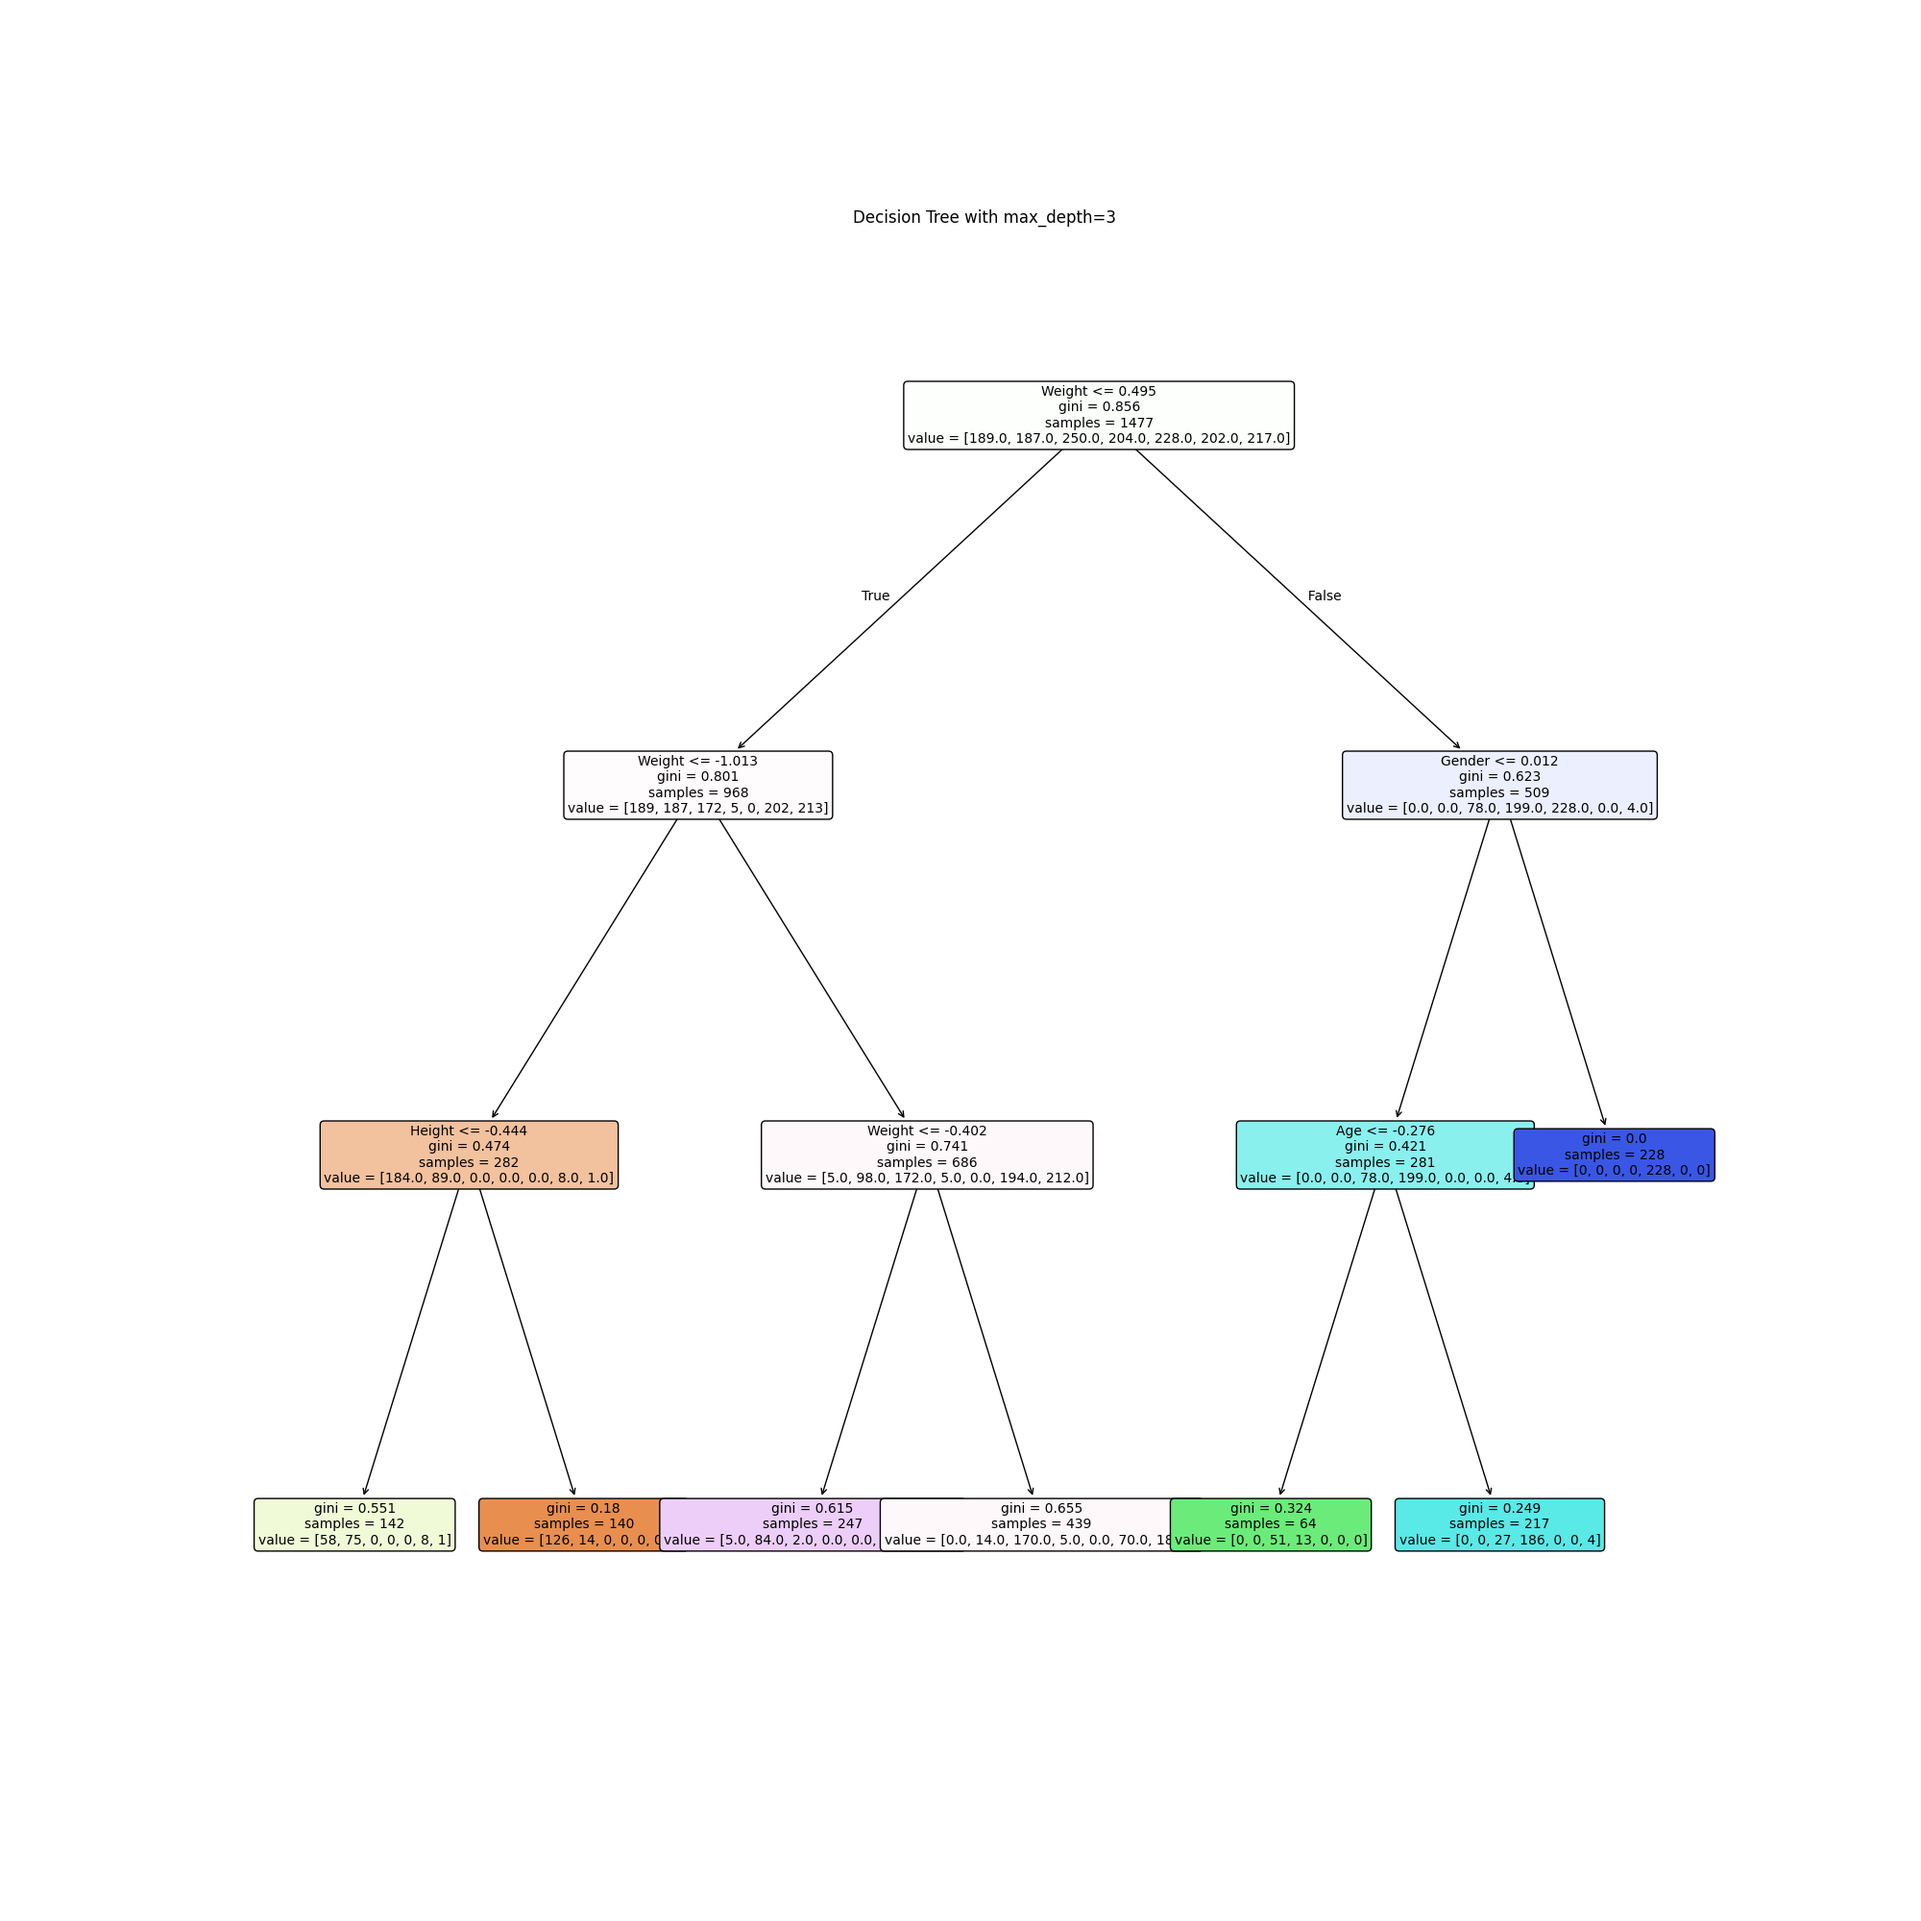
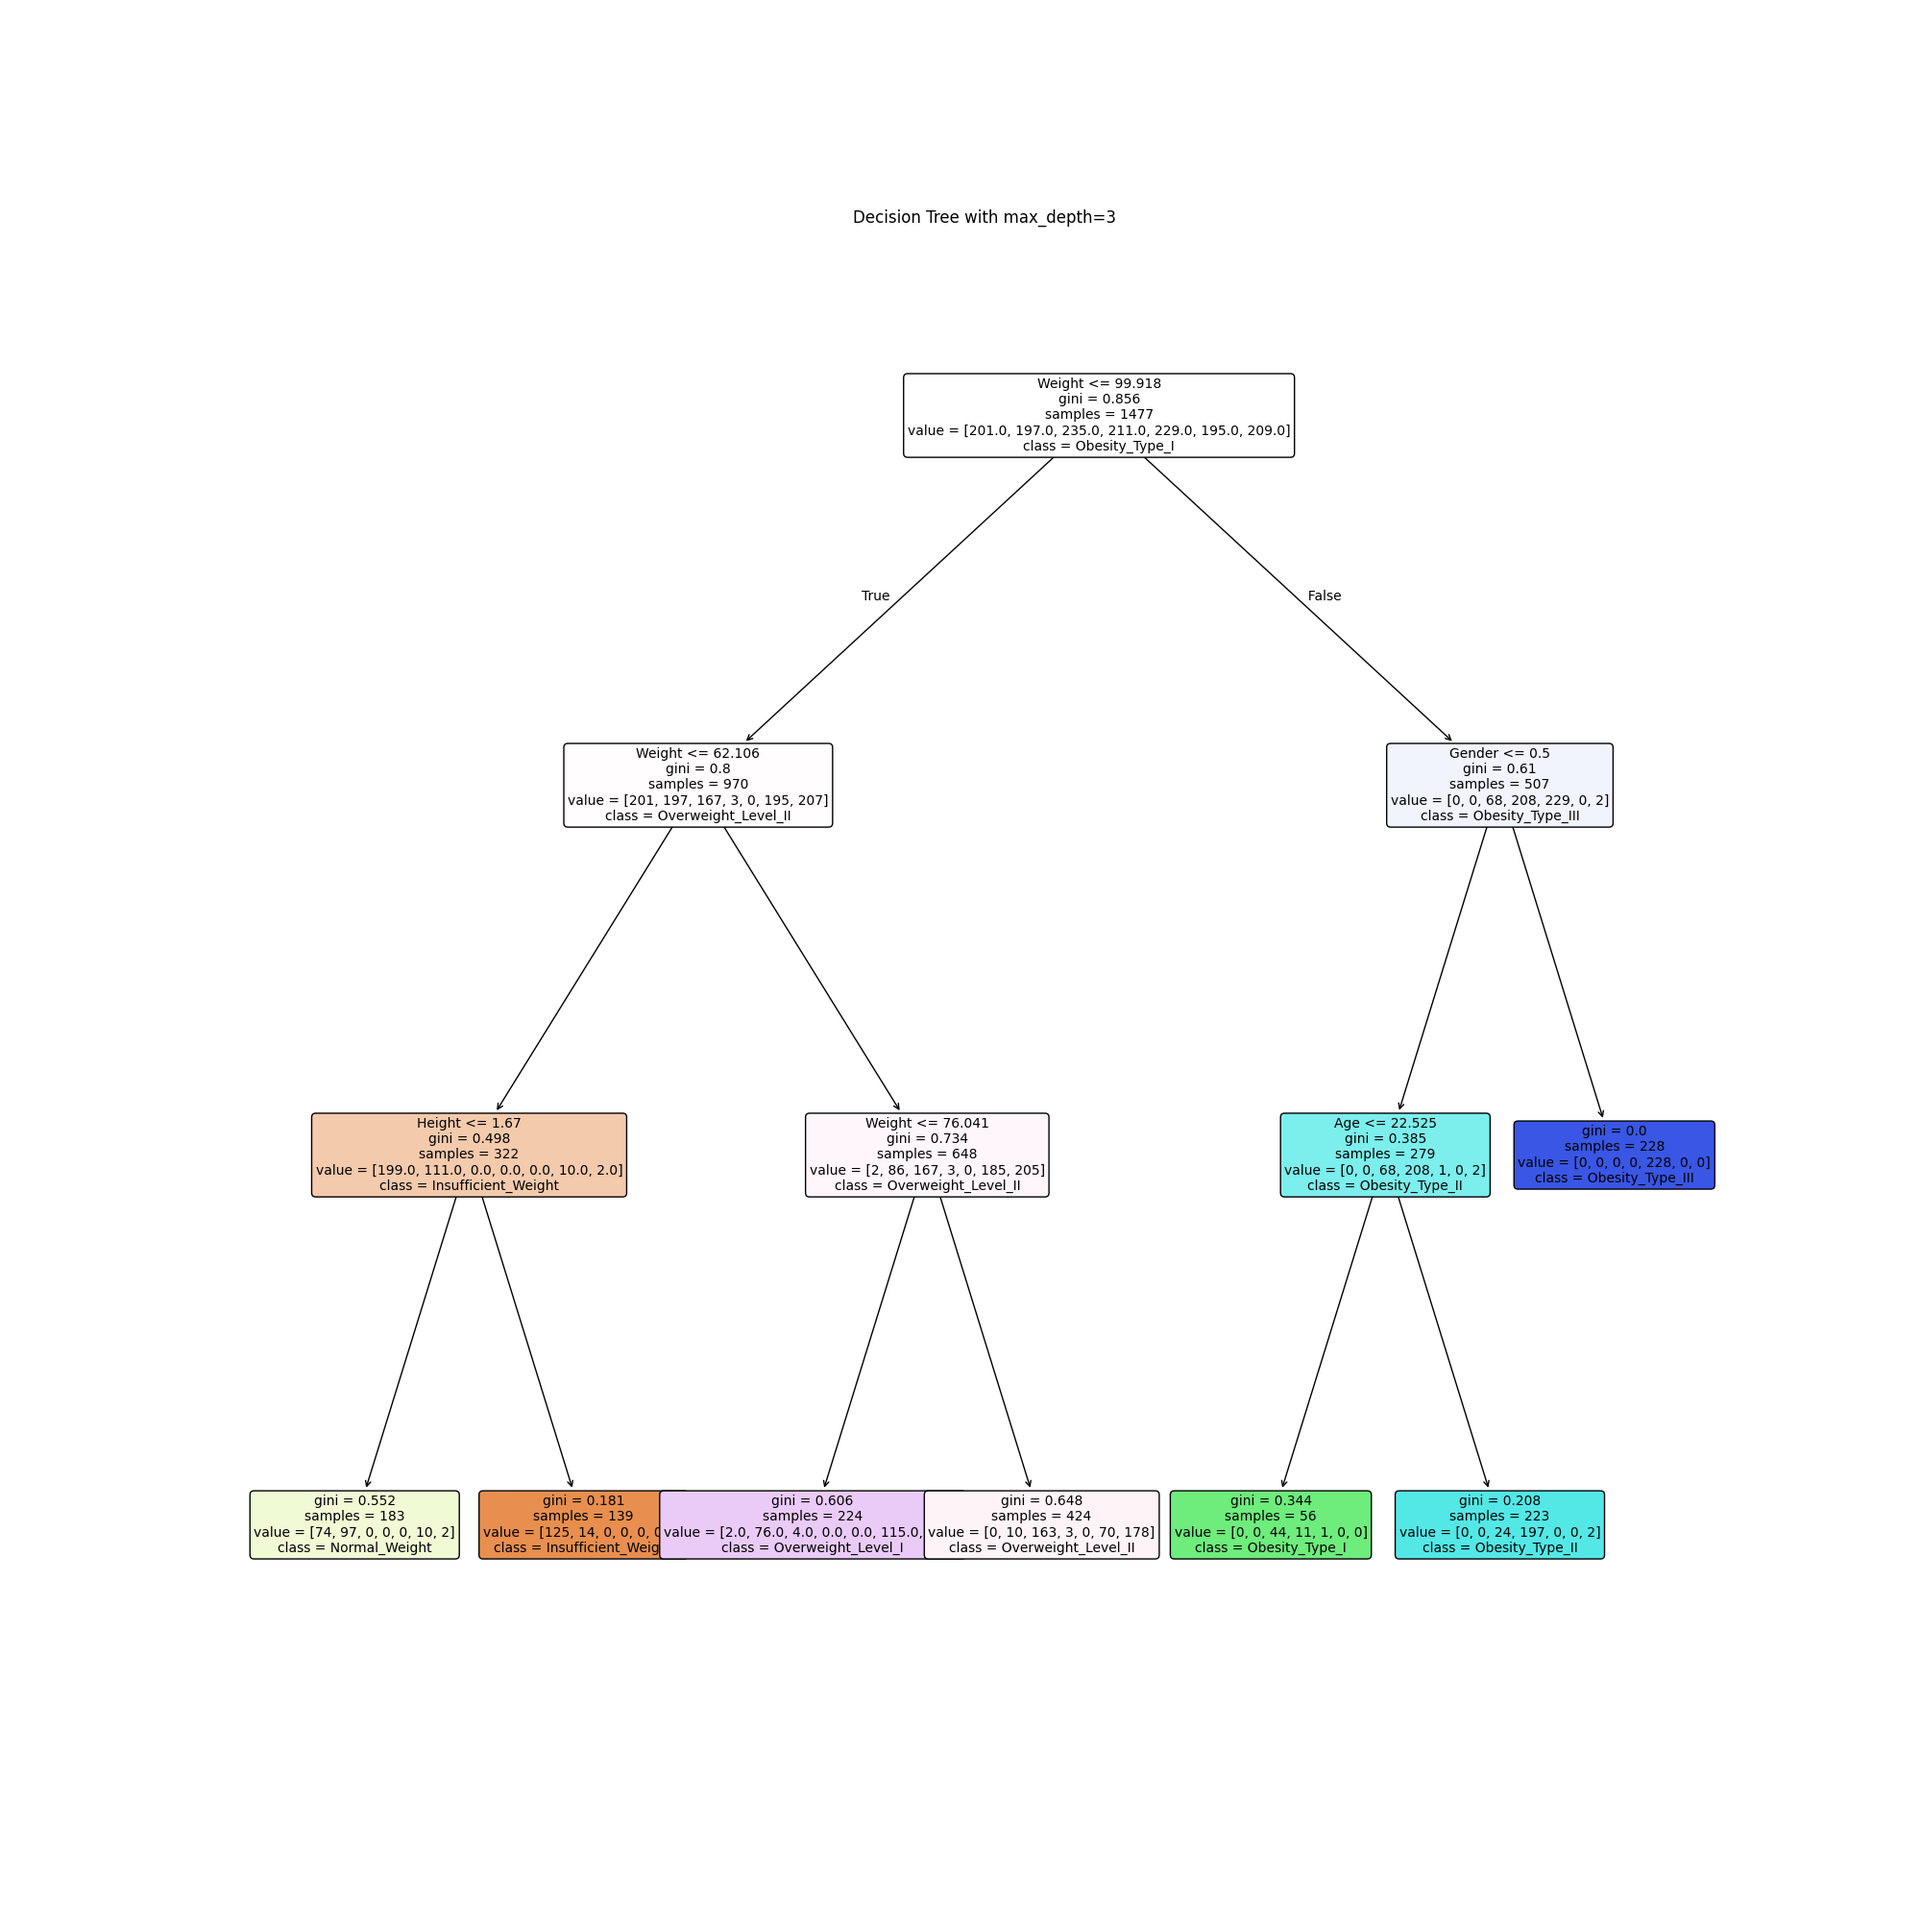
Notebook check 5. Random forest and SVC

diff --git a/src/5/svc_cv.py b/src/5/svc_cv.py
@@ -1,6 +1,5 @@
 import pandas as pd
 from sklearn.svm import SVC
-from sklearn.ensemble import RandomForestClassifier
 from sklearn.model_selection import train_test_split, GridSearchCV
 from sklearn.metrics import ConfusionMatrixDisplay
 import matplotlib.pyplot as plt
@@ -13,30 +12,19 @@ X = (X - X.mean(axis=0)) / X.std(axis=0)
 
 X_train, X_test, y_train, y_test = train_test_split(X, y, test_size=0.3)
 
-# SVC
-# svc_clf = SVC()
-# param_grid = {"C": np.logspace(-2, 2, 5), "gamma": np.logspace(-2, 2, 5)}
-# grid_search = GridSearchCV(svc_clf, param_grid, verbose=5)
-# grid_search.fit(X_train, y_train)
-# svc_clf = grid_search.best_estimator_
 
-# score_df = pd.DataFrame(grid_search.cv_results_)
-# print("SVC Results:")
-# print(score_df[[ "param_C", "param_gamma", "mean_test_score", "rank_test_score"]])
-# disp = ConfusionMatrixDisplay.from_estimator(svc_clf, X_test, y_test)
-# disp.ax_.set_title("SVC Confusion matrix")
-# plt.show()
-
-# Random Forest
-rf_clf = RandomForestClassifier()
-param_grid = {"n_estimators": [10, 50, 100], "max_depth": range(3, 15)}
-grid_search = GridSearchCV(rf_clf, param_grid, verbose=5)
+svc_clf = SVC()
+param_grid = {"C": np.logspace(-2, 2, 5), "gamma": np.logspace(-2, 2, 5)}
+grid_search = GridSearchCV(svc_clf, param_grid, verbose=5, n_jobs=-1)
 grid_search.fit(X_train, y_train)
-rf_clf = grid_search.best_estimator_
+svc_clf = grid_search.best_estimator_
+
 score_df = pd.DataFrame(grid_search.cv_results_)
-print("Random Forest Results:")
-print(score_df[["param_n_estimators", "param_max_depth", "mean_test_score", "rank_test_score"]])
-disp = ConfusionMatrixDisplay.from_estimator(rf_clf, X_test, y_test)
-disp.ax_.set_title("Random Forest Confusion matrix")
-plt.show()
+print("SVC Results:")
+print(score_df[[ "param_C", "param_gamma", "mean_test_score", "rank_test_score"]])
+disp = ConfusionMatrixDisplay.from_estimator(svc_clf, X_test, y_test)
+disp.ax_.set_title("SVC Confusion matrix")
+plt.savefig("src/5/images/svc_cm.png")
+
+
 

diff --git a/src/5/max_depth_cv.py b/src/5/max_depth_cv.py
@@ -8,7 +8,7 @@ df = pd.read_csv("./datasets/obesity_clean.csv")
 
 y = df.iloc[:, -1].to_numpy()
 X = df.iloc[:, :-1].to_numpy()
-X = (X - X.mean(axis=0)) / X.std(axis=0)
+# X = (X - X.mean(axis=0)) / X.std(axis=0)
 
 X_train, X_test, y_train, y_test = train_test_split(X, y, test_size=0.3)
 
@@ -19,18 +19,30 @@ grid_search.fit(X_train, y_train)
 clf = grid_search.best_estimator_
 
 score_df = pd.DataFrame(grid_search.cv_results_)
-print(score_df[["param_max_depth", "mean_test_score"]])
+print(score_df[["param_max_depth", "mean_test_score", "rank_test_score"]])
 
+fig, ax = plt.subplots(figsize=(10, 10))
 
-disp = ConfusionMatrixDisplay.from_estimator(clf, X_test, y_test)
+disp = ConfusionMatrixDisplay.from_estimator(clf, X_test, y_test, ax=ax)
 disp.ax_.set_title("Confusion matrix")
-plt.show()
+
+
+for label in disp.ax_.get_xticklabels():
+    label.set_fontsize(8)
+    label.set_rotation(45)
+for label in disp.ax_.get_yticklabels():
+    label.set_fontsize(8)
+
+
+
+plt.savefig("./src/5/images/decision_tree_confusion_matrix.png", dpi=100)
+
 
 # plot max_depth == 3 tree
+class_names = sorted(df.iloc[:, -1].unique())
 max_depth_3_clf = DecisionTreeClassifier(max_depth=3)
 max_depth_3_clf.fit(X_train, y_train)
 plt.figure(figsize=(20, 20))
-plot_tree(max_depth_3_clf, filled=True, fontsize=10, feature_names=df.columns[:-1], rounded=True)
+plot_tree(max_depth_3_clf, filled=True, fontsize=10, feature_names=df.columns[:-1], class_names=class_names, rounded=True)
 plt.title("Decision Tree with max_depth=3")
-plt.savefig("./src/5/images/max_depth_3_tree.png", dpi=100)
-
+plt.savefig("./src/5/images/max_depth_3_tree.png")

diff --git a/src/5/random_forest_cv.py b/src/5/random_forest_cv.py
@@ -1,0 +1,24 @@
+import pandas as pd
+from sklearn.ensemble import RandomForestClassifier
+from sklearn.model_selection import train_test_split, GridSearchCV
+from sklearn.metrics import ConfusionMatrixDisplay
+import matplotlib.pyplot as plt
+
+df = pd.read_csv("datasets/magic+gamma+telescope/magic_data_clean.csv")
+y = df.iloc[:, -1].to_numpy()
+X = df.iloc[:, :-1].to_numpy()
+X = (X - X.mean(axis=0)) / X.std(axis=0)
+
+X_train, X_test, y_train, y_test = train_test_split(X, y, test_size=0.3)
+
+rf_clf = RandomForestClassifier()
+param_grid = {"n_estimators": [10, 50, 100], "max_depth": range(6, 15), "max_features": [0.5, 0.75, 1]}
+grid_search = GridSearchCV(rf_clf, param_grid, verbose=5,)
+grid_search.fit(X_train, y_train)
+rf_clf = grid_search.best_estimator_
+score_df = pd.DataFrame(grid_search.cv_results_)
+print("Random Forest Results:")
+print(score_df[["param_n_estimators", "param_max_depth", "mean_test_score", "rank_test_score"]])
+disp = ConfusionMatrixDisplay.from_estimator(rf_clf, X_test, y_test)
+disp.ax_.set_title("Random Forest Confusion matrix")
+plt.savefig("src/5/images/rf_cm.png")
